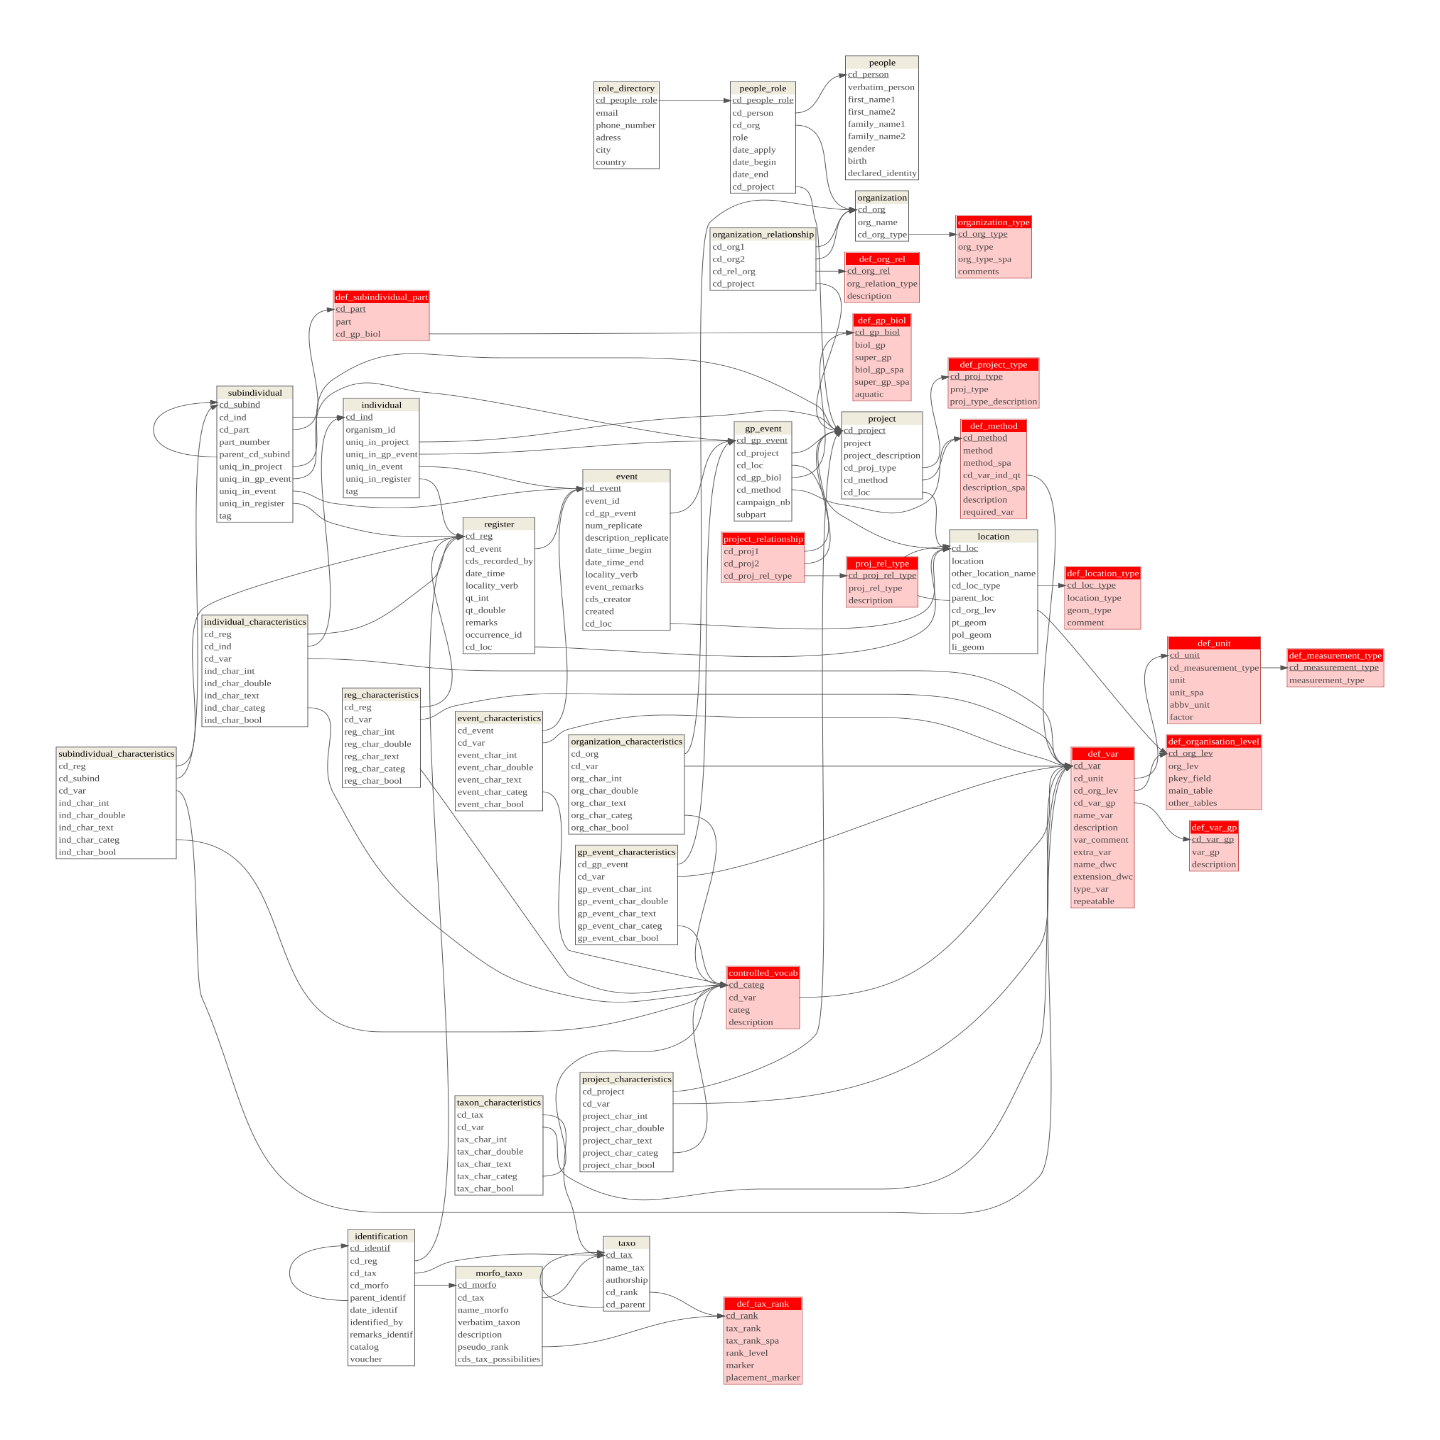
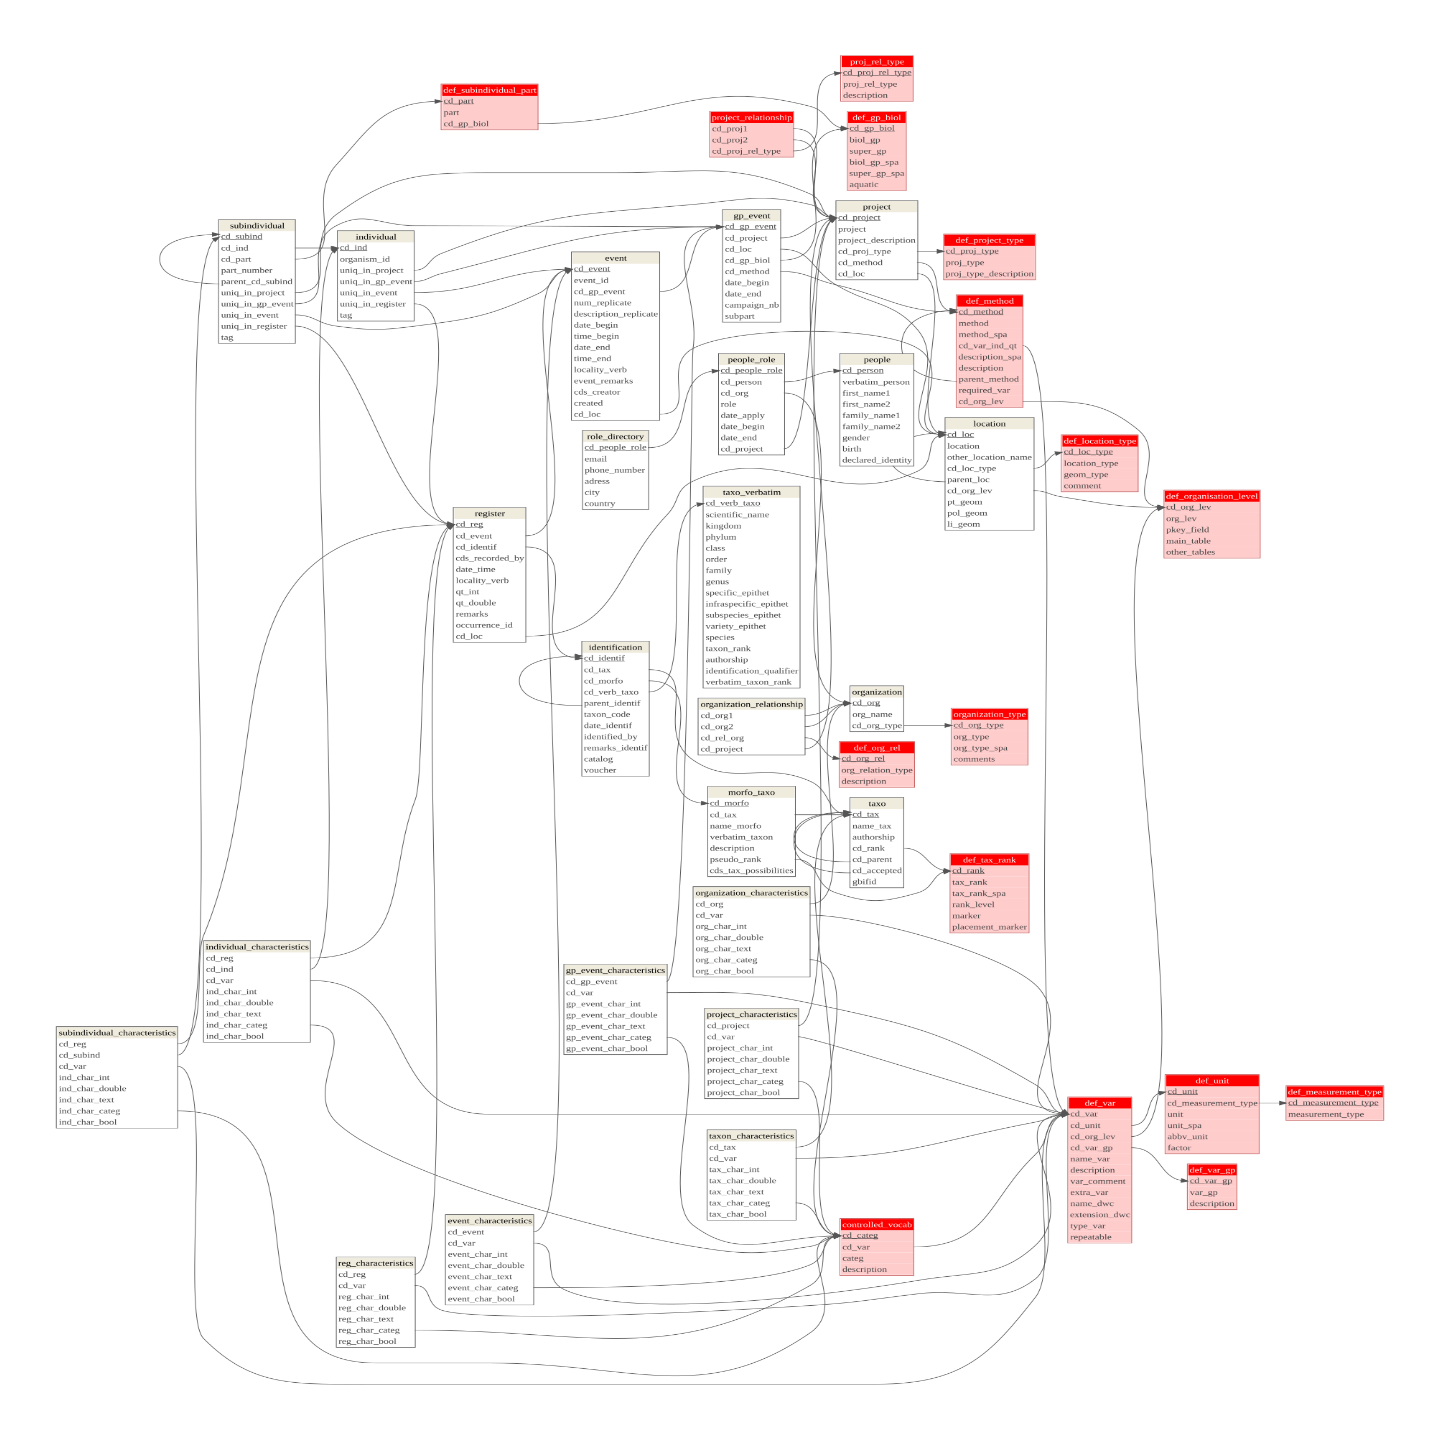
Changes in the database structure for taxonomy and identifications

diff --git a/documents/dataArchitecture.md b/documents/dataArchitecture.md
@@ -43,7 +43,7 @@ require(rsvg)
 
     Loading required package: rsvg
 
-    Linking to librsvg 2.58.5
+    Linking to librsvg 2.60.0
 
 ``` r
 require(png)
@@ -242,7 +242,7 @@ tables_biol$org_lev [tables_biol$table_name %in% c("gp_event","gp_event_characte
 tables_biol$org_lev [tables_biol$table_name %in% c("project","proj_rel_type","project_characteristics","def_project_type")] <- "project"
 tables_biol$org_lev [tables_biol$table_name %in% c("def_gp_biol","def_method")] <- "methodology"
 tables_biol$org_lev [tables_biol$table_name %in% c("identification")] <- "identification"
-tables_biol$org_lev [tables_biol$table_name %in% c("def_tax_rank","taxo","taxon_characteristics")] <- "taxon"
+tables_biol$org_lev [tables_biol$table_name %in% c("def_tax_rank","taxo","taxon_characteristics","taxo_verbatim")] <- "taxon"
 tables_biol$org_lev [tables_biol$table_name %in% c("morfo_taxo")] <- "morfo-taxon"
 tables_biol$org_lev [tables_biol$table_name %in% c("people")] <- "person"
 tables_biol$org_lev [tables_biol$table_name %in% c("organization_type","organization","organization_characteristics")] <- "organization"
@@ -400,6 +400,7 @@ Tabla 1: Tipos de proyectos en la base de datos relacionales
 | 2 | collection field campaign | Project organized around a field campaign, usually included in a larger project with an institutional ID |
 | 3 | permanent plot | Project mostly useful to be able to filter a permanent plot, note that this kind of project should include various gp_event corresponding to various campaign on the same site |
 | 4 | data project | Meta-project with the objective of integrating data from various projects |
+| 5 | permanent plot set | Set of permanent plots which share characteristics, geographic or otherwise |
 
 </div>
 
@@ -471,14 +472,17 @@ flexibilidad de definición de las entidades taxonómicas. En la base de
 datos, manejamos esa flexibilidad a traves de una tabla de
 morfo-taxones, que llama a la tabla taxonomica. También instauramos una
 tabla de determinación que hace la relación entre registros y el sistema
-taxonomico. De esa manera, podemos asociar una determinación a una fecha
+taxonomico. Desde la tabla de determinación, se pueden referenciar taxa
+y morphotaxa, pero tambien la tabla taxo_verbatim, por si la taxonomía
+no está suficiente resuelta para poder incorporarla en la tabla de
+taxonomía. De esa manera, podemos asociar una determinación a una fecha
 particular, con la idea que la ultima determinación es la más
 importante, pero que puede ser importante tener un acceso al historial
 del trabajo de determinación.
 
 ``` r
 par(mar=rep(0,4))
-dm_obj_proj <- dm_from_con(biol,schema=c("main"), table_names = c("identification","taxo","morfo_taxo","def_tax_rank","taxon_characteristics","register"), learn_keys = T)
+dm_obj_proj <- dm_from_con(biol,schema=c("main"), table_names = c("identification","taxo","taxo_verbatim","morfo_taxo","def_tax_rank","taxon_characteristics","register"), learn_keys = T)
 A<-dm_obj_proj %>%
   dm_draw(view_type = "all")
 t_file<-tempfile(fileext = ".png")
